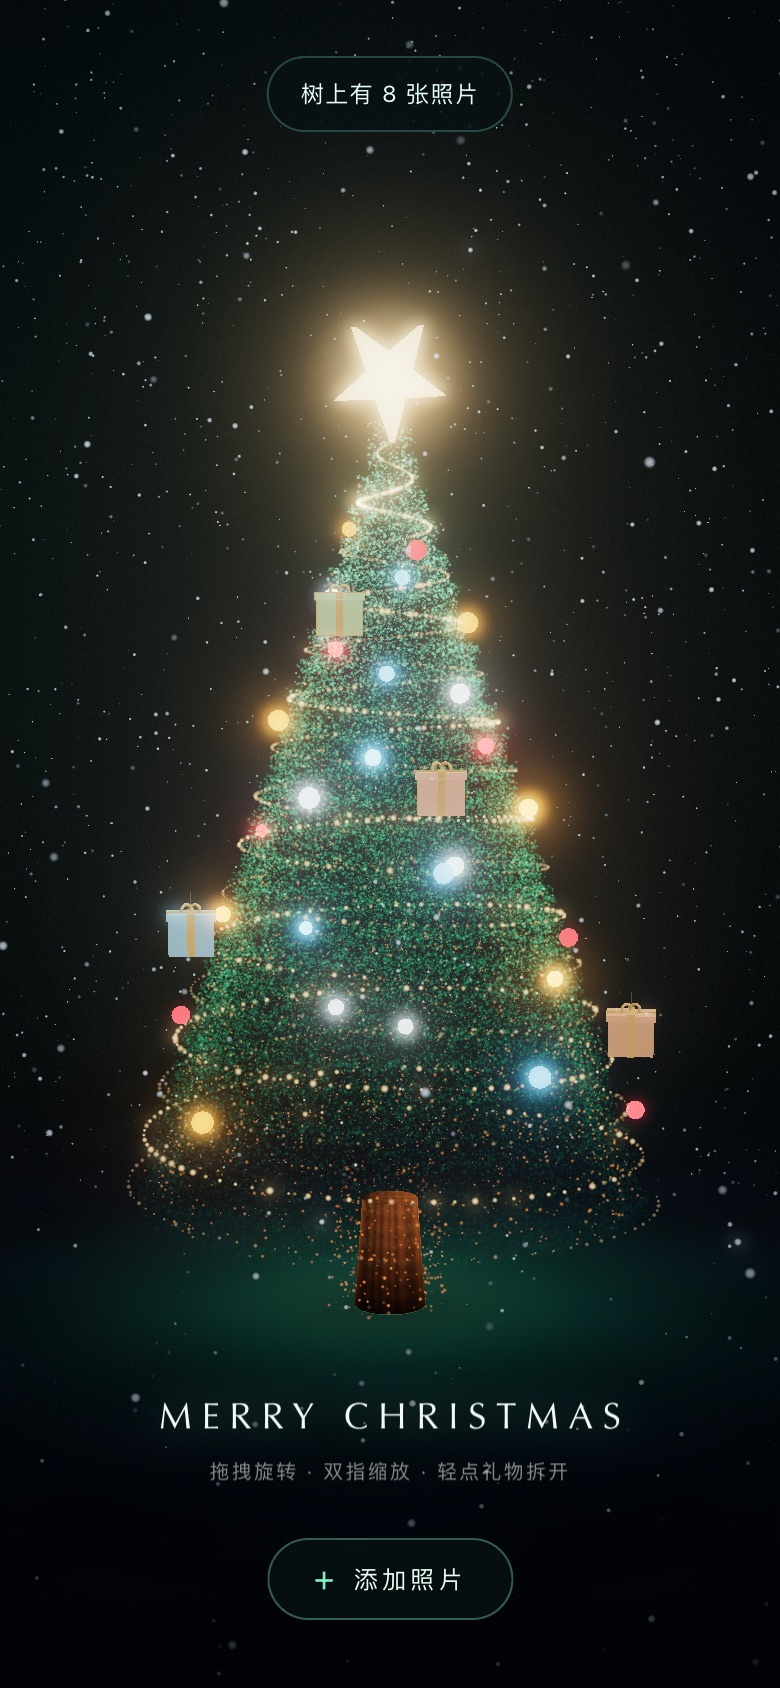
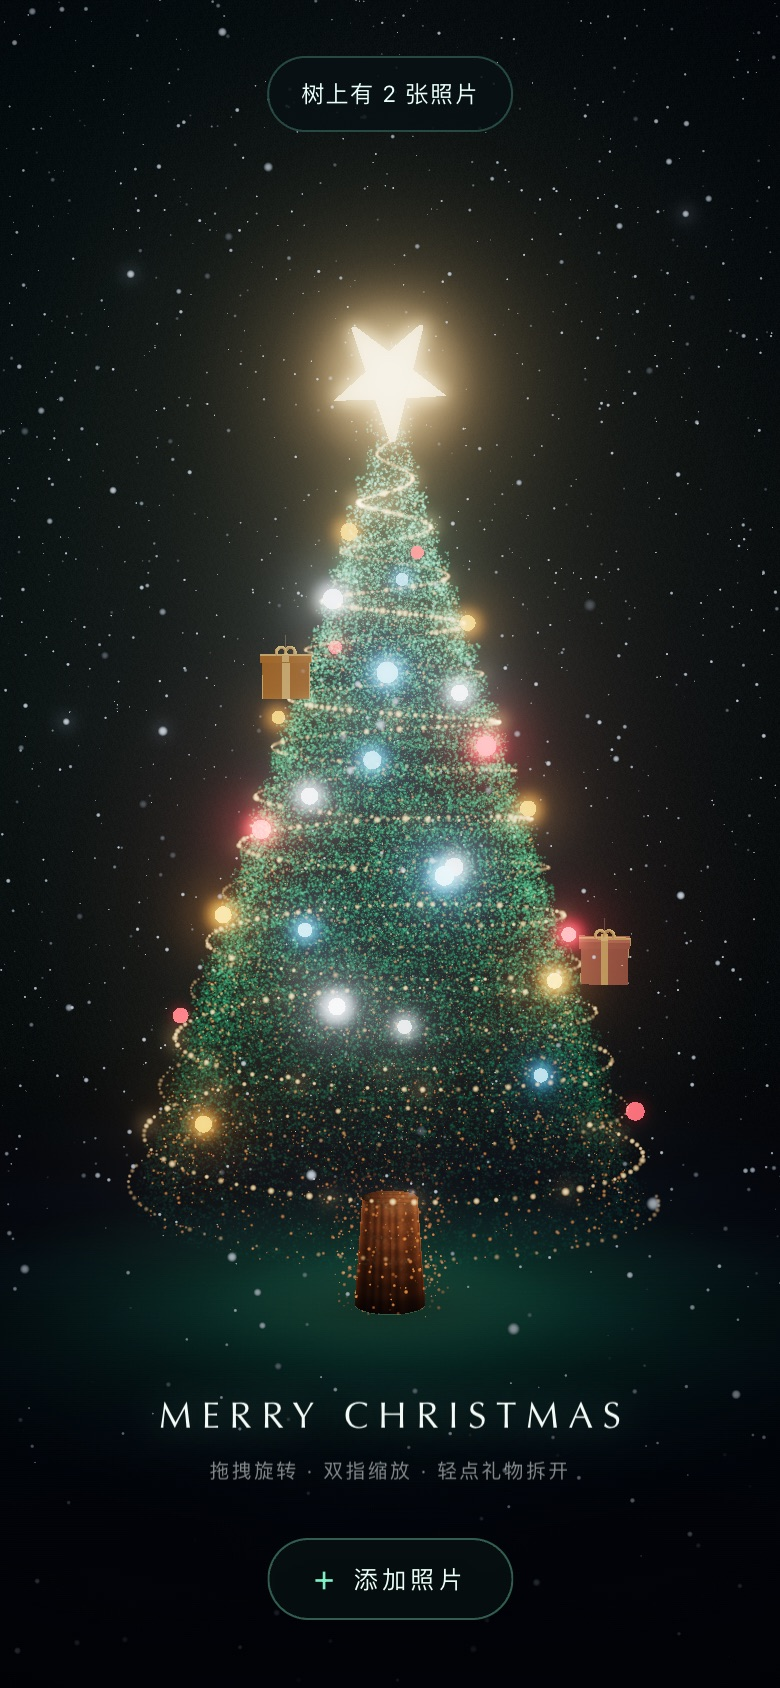
style: 礼物盒配色压暗提饱和，避免悬停过曝

diff --git a/js/photo-ornaments.js b/js/photo-ornaments.js
@@ -52,7 +52,7 @@ export function createPhotoOrnaments(world, { onSparkle } = {}) {
       vec3 n = normalize(vNormalW);
       float lambert = clamp(dot(n, normalize(vec3(0.45, 0.8, 0.55))), 0.0, 1.0);
       float rim = pow(1.0 - abs(n.z), 2.0);
-      vec3 color = uColor * (0.42 + 0.78 * lambert);
+      vec3 color = uColor * (0.45 + 0.62 * lambert);
       color += uColor * uGlow * 0.55;
       color += uColor * rim * 0.08;
       gl_FragColor = vec4(color, uOpacity);
@@ -117,7 +117,7 @@ export function createPhotoOrnaments(world, { onSparkle } = {}) {
     const hsl = { h: 0, s: 0, l: 0 };
     color.getHSL(hsl);
     const sourceColor = hsl.s < 0.12 ? new THREE.Color(FESTIVE[order.length % FESTIVE.length]) : color;
-    const baseColor = sourceColor.clone().offsetHSL(0, 0.2, -0.03).multiplyScalar(0.66);
+    const baseColor = sourceColor.clone().offsetHSL(0, 0.24, -0.05).multiplyScalar(0.5);
 
     const bodyMaterial = makeMaterial(baseColor);
     const body = new THREE.Mesh(bodyGeometry, bodyMaterial);
@@ -277,7 +277,7 @@ export function createPhotoOrnaments(world, { onSparkle } = {}) {
       item.lidMaterial.uniforms.uOpacity.value = 1 - item.open * 0.65;
 
       // 盒身：打开时内部透出暖光
-      item.bodyMaterial.uniforms.uGlow.value = item.open * 0.55 + item.hover * 0.12 + 0.04 * pulse;
+      item.bodyMaterial.uniforms.uGlow.value = item.open * 0.5 + item.hover * 0.08 + 0.03 * pulse;
       item.glowMaterial.opacity = item.open * 0.85;
       item.glow.scale.setScalar(1.2 + item.open * 1.6);
 
